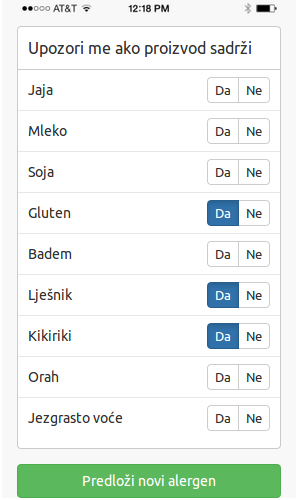
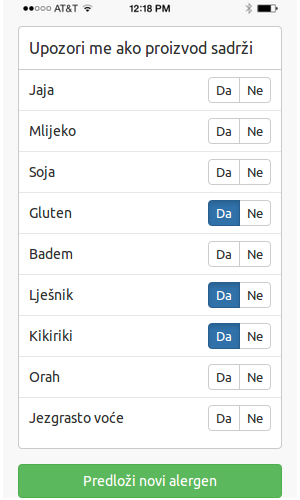
ideus site

diff --git a/app/assets/stylesheets/mobile-mockup.scss b/app/assets/stylesheets/mobile-mockup.scss
@@ -1,0 +1,27 @@
+.mob-mockup {
+  color: #818181;
+  
+  .section {
+    padding: 0% 15%;
+    .back-left {
+      background-image: url('mob.png');
+      background-repeat: no-repeat;
+      background-position: left bottom;
+      height: 100%;
+    }
+    .back-right {
+      background-image: url('mob.png');
+      background-repeat: no-repeat;
+      background-position: right bottom;
+      height: 100%;
+      position: relative;
+      img {
+        position: absolute;
+        bottom: 0px;
+        right: 27px;
+      }
+    }
+    
+  }
+  
+}

diff --git a/app/assets/javascripts/mobile-mockup.js b/app/assets/javascripts/mobile-mockup.js
@@ -1,0 +1,17 @@
+$(document).ready(function() {
+	$('#fullpage').fullpage({
+		onLeave: function(current, next) {
+			var d = 800;
+			var f = 1000;
+		}
+	});
+
+	
+	// $('.right_nav').on('click', 'a', function() {
+	//     $('.right_nav a.active').removeClass('active');
+	//     $(this).addClass('active');
+	// 	$(this).css("background-color", "#f9423a");
+	// });
+
+
+});

diff --git a/app/assets/stylesheets/jquery.fullPage.css b/app/assets/stylesheets/jquery.fullPage.css
@@ -45,10 +45,10 @@ html, body {
     width: 100%;
 }
 .tableCell {
-    display: table-cell;
+    /*display: table-cell;
     vertical-align: middle;
     width: 100%;
-    height: 100%;
+    height: 100%;*/
 }
 .slidesContainer {
     float: left;

diff --git a/app/assets/stylesheets/application.css.scss b/app/assets/stylesheets/application.css.scss
@@ -1,4 +1,5 @@
 @import 'custom';
+@import 'mobile-mockup';
 @import 'jquery.fullPage';
 @import 'bourbon';
 @import 'neat';
